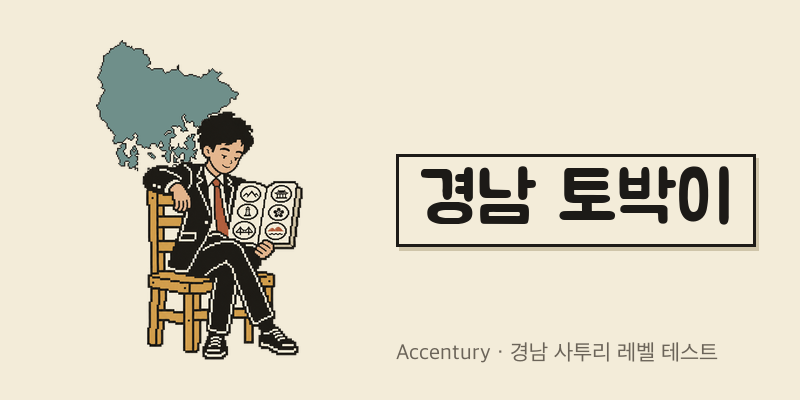
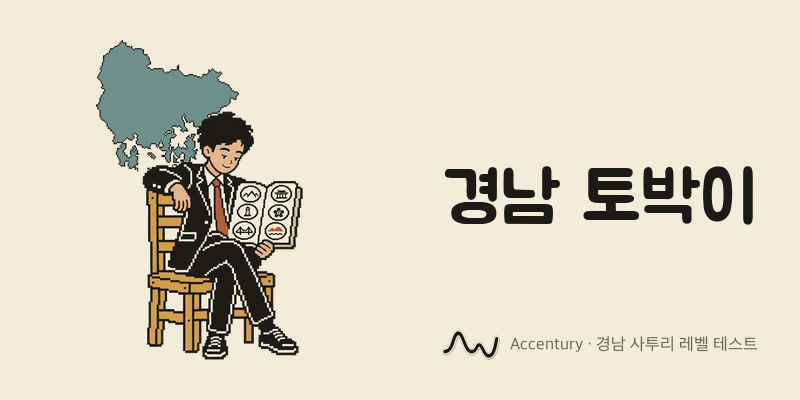
KAN-325 공유 카드 개편 - 등급명 박스 제거, 앱 마크 추가, 등급명·브랜드 줄을 오른쪽 절반 가운데로, 문서의 옛 호소인 배지 설명 교체

Changed region(s): [[0.4688, 0.36, 0.9688, 0.63], [0.5, 0.81, 0.9375, 0.9]]

diff --git a/assets/characters/build.py b/assets/characters/build.py
@@ -60,6 +60,8 @@ CARD_W, CARD_H = 800, 400
 CARD_MAX_BYTES = 300 * 1024
 CARD_PAD = 40
 BRAND_LINE = "Accentury · 경남 사투리 레벨 테스트"
+MARK_SRC = REPO / "assets" / "app-icon" / "source.png"
+MARK_H = 30
 
 # 키잉 파라미터. 배경은 생성 단계에서 균일(편차 ≤2)이라 허용 오차를 작게 둔다 — 크림 림의
 # 종이 두께 선은 배경보다 약 30 어둡고, 그 선이 flood fill을 막는 벽이다.
@@ -183,7 +185,14 @@ def load_fonts() -> tuple[ImageFont.FreeTypeFont, ImageFont.FreeTypeFont, ImageF
     return title, brand
 
 
-def draw_card(name: str, cut: Image.Image, fonts) -> Image.Image:
+def load_mark() -> Image.Image:
+    """앱 아이콘 도상(`assets/app-icon/source.png`)을 배경 없이 카드 크기로 줄인다."""
+    cut = key_background(Image.open(MARK_SRC))
+    cut = cut.crop(cut.getbbox())
+    return cut.resize((int(cut.width * MARK_H / cut.height), MARK_H), Image.LANCZOS)
+
+
+def draw_card(name: str, cut: Image.Image, fonts, mark: Image.Image) -> Image.Image:
     title_font, brand_font = fonts
     card = Image.new("RGBA", (CARD_W, CARD_H), PAPER + (255,))
 
@@ -199,28 +208,25 @@ def draw_card(name: str, cut: Image.Image, fonts) -> Image.Image:
     card.paste(fig, (fx, fy), fig)
 
     draw = ImageDraw.Draw(card)
-    left = CARD_PAD + max_w + 36
 
-    # 우측: 등급명 종이 조각 — 잉크 테두리 + 오프셋 그림자(3px 4px, KAN-161 PAPER_SHADOW).
-    # 등급명은 2~7자로 길이가 갈린다("사투리 호소인"). 조각이 카드 오른쪽 여백을 넘으면 글자를
-    # 줄여서 맞춘다 — 조각이 잘린 카드가 카톡에 나가는 것이 가장 나쁘다.
-    chip_pad_x, chip_pad_y = 22, 10
-    avail = CARD_W - CARD_PAD - left
+    # 우측 절반 가운데: 등급명 글자. 등급명은 2~7자로 길이가 갈린다("사투리 호소인"). 카드 오른쪽 여백을 넘으면
+    # 글자를 줄여서 맞춘다 — 글자가 잘린 카드가 카톡에 나가는 것이 가장 나쁘다.
+    avail = CARD_W // 2 - 2 * CARD_PAD
     size = title_font.size
-    while True:
-        tw = draw.textlength(name, font=title_font)
-        chip_w = int(tw + 2 * chip_pad_x)
-        if chip_w + 3 <= avail or size <= 40:
-            break
+    while draw.textlength(name, font=title_font) > avail and size > 40:
         size -= 4
         title_font = ImageFont.truetype(str(FONT_JUA), size)
-    chip_h = size + 2 * chip_pad_y
-    chip_x, chip_y = left, CARD_H // 2 - chip_h // 2
-    draw.rectangle([chip_x + 3, chip_y + 4, chip_x + chip_w + 3, chip_y + chip_h + 4], fill=PAPER_SHADOW)
-    draw.rectangle([chip_x, chip_y, chip_x + chip_w, chip_y + chip_h], fill=PAPER, outline=INK, width=3)
-    draw.text((chip_x + chip_pad_x, chip_y + chip_h // 2), name, font=title_font, fill=INK, anchor="lm")
+    draw.text((CARD_W * 3 // 4, CARD_H // 2), name, font=title_font, fill=INK, anchor="mm")
 
-    draw.text((left, CARD_H - CARD_PAD), BRAND_LINE, font=brand_font, fill=MUTED, anchor="ls")
+    # 아래: 앱 마크 + 브랜드 줄. 한 묶음으로 등급명과 같은 축에 가운데 맞춘다.
+    gap = 10
+    while mark.width + gap + draw.textlength(BRAND_LINE, font=brand_font) > avail:
+        brand_font = brand_font.font_variant(size=brand_font.size - 1)
+    group_w = mark.width + gap + int(draw.textlength(BRAND_LINE, font=brand_font))
+    mark_x = CARD_W * 3 // 4 - group_w // 2
+    mark_y = CARD_H - CARD_PAD - mark.height
+    card.paste(mark, (mark_x, mark_y), mark)
+    draw.text((mark_x + mark.width + gap, mark_y + mark.height // 2), BRAND_LINE, font=brand_font, fill=MUTED, anchor="lm")
     return card.convert("RGB")
 
 
@@ -242,6 +248,7 @@ def save_png_under(img: Image.Image, path: Path, limit: int) -> int:
 
 def main() -> None:
     fonts = load_fonts()
+    mark = load_mark()
     rows = []
     for code, name in TIERS:
         src = Image.open(ROOT / code / "source.png")
@@ -249,7 +256,7 @@ def main() -> None:
         web = build_web(code, cut)
         SHARE_OUT.mkdir(parents=True, exist_ok=True)
         card_path = SHARE_OUT / f"{code}.png"
-        card_bytes = save_png_under(draw_card(name, cut, fonts), card_path, CARD_MAX_BYTES)
+        card_bytes = save_png_under(draw_card(name, cut, fonts, mark), card_path, CARD_MAX_BYTES)
         # 저장된 파일을 다시 열어 잰다 — 메모리의 이미지가 아니라 디스크의 결과가 규격이다
         with Image.open(card_path) as saved:
             card_size = saved.size

diff --git a/docs/wiki/character-assets.md b/docs/wiki/character-assets.md
@@ -41,7 +41,7 @@
 3. **결과 화면 WebP** — 알파 bbox 트림 → 4:5 캔버스 → 폭 780 → 150KB 아래 첫 quality.
    투명 배경인 이유는 다크 모드다: 캐릭터는 크림 종이 고정 + 크림 2px halo(KAN-161 규칙)인데
    래스터는 투명해야 halo가 그림 가장자리에 붙는다.
-4. **공유 카드 PNG** — 800×400, 좌측 캐릭터 + 우측 등급명 종이 조각(Jua) + 브랜드 줄. 순위·점수는
+4. **공유 카드 PNG** — 800×400, 좌측 캐릭터 + 우측 등급명(Jua, 글자만) + 앱 마크·브랜드 줄. 순위·점수는
    싣지 않는다(KAN-30: 수신자는 자기 테스트를 하러 온다). 300KB 이하.
 
 ## 4. 결과 화면에서 쓰는 방식
@@ -50,7 +50,7 @@
   클라이언트에 두지 않는 KAN-29 결정은 그대로다.
 - `<img width=780 height=975 decoding="async">` + 실패·미매핑 시 같은 슬롯에 등급명 텍스트 폴백
   (`aria-hidden`, 바로 아래 h1이 같은 이름을 읽으므로).
-- 슬롯 `.illustration--result`는 폭 192 · 높이 240(4:5). 168이면 "호소인" 배지 글자가 뭉개진다.
+- 슬롯 `.illustration--result`는 폭 192 · 높이 240(4:5). 168이면 호소인 티셔츠 글자가 뭉개진다.
 - halo는 CSS `drop-shadow` 4방향 2px 크림 — 라이트에서는 배경과 같은 색이라 보이지 않고, 다크
   팔레트가 붙는 순간 살아난다.
 - `decoding="async"`라 로드 완료 직후 한 프레임은 빈 슬롯이 찍힐 수 있다(캡처 시 주의, 결함 아님).

diff --git a/assets/share/README.md b/assets/share/README.md
@@ -22,8 +22,8 @@
 ## 구성·규격
 
 - **800×400 PNG** (2:1, 카카오 피드 카드 권장 비율), 각 **300KB 이하** (지금은 70~140KB).
-- 배경은 앱 종이색 `#F3ECD9`. 좌측에 등급 캐릭터, 우측에 등급명(Jua, 잉크 테두리 종이 조각) +
-  "Accentury · 경남 사투리 레벨 테스트". 순위·점수는 싣지 않는다.
+- 배경은 앱 종이색 `#F3ECD9`. 좌측에 등급 캐릭터, 우측 절반 가운데 축에 등급명(Jua, 글자만)과
+  앱 마크와 "Accentury · 경남 사투리 레벨 테스트". 순위·점수는 싣지 않는다.
 - **5MB 이하**, **https 필수** — 카카오가 이미지를 자기 서버로 가져가는 조건이다.
 - 이미지를 올린 도메인을 **카카오 개발자 콘솔에 등록**해야 카드가 그려진다. 등록되지 않은
   도메인이면 카드가 이미지 없이 나간다.
